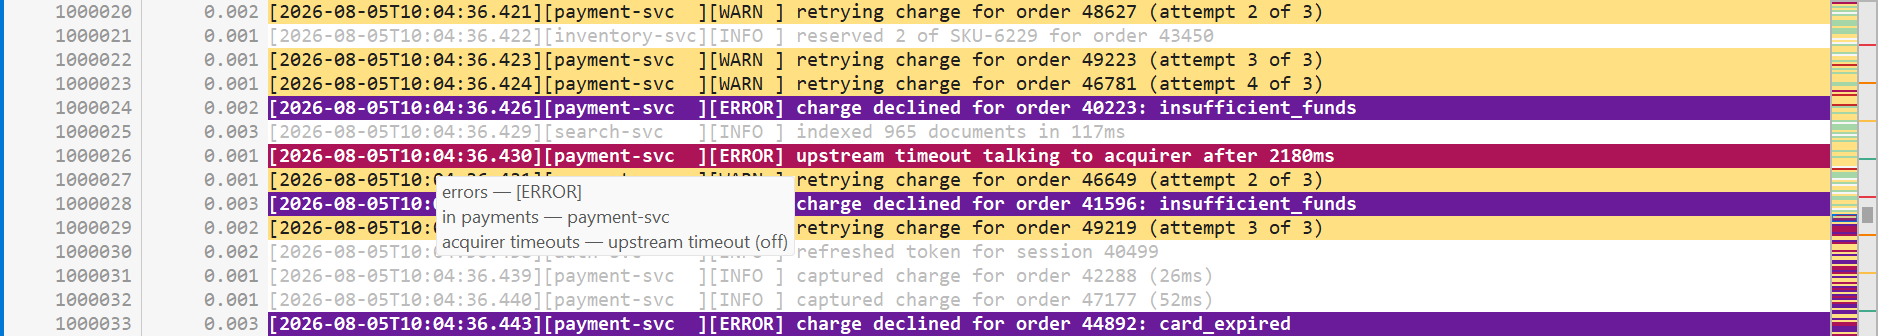
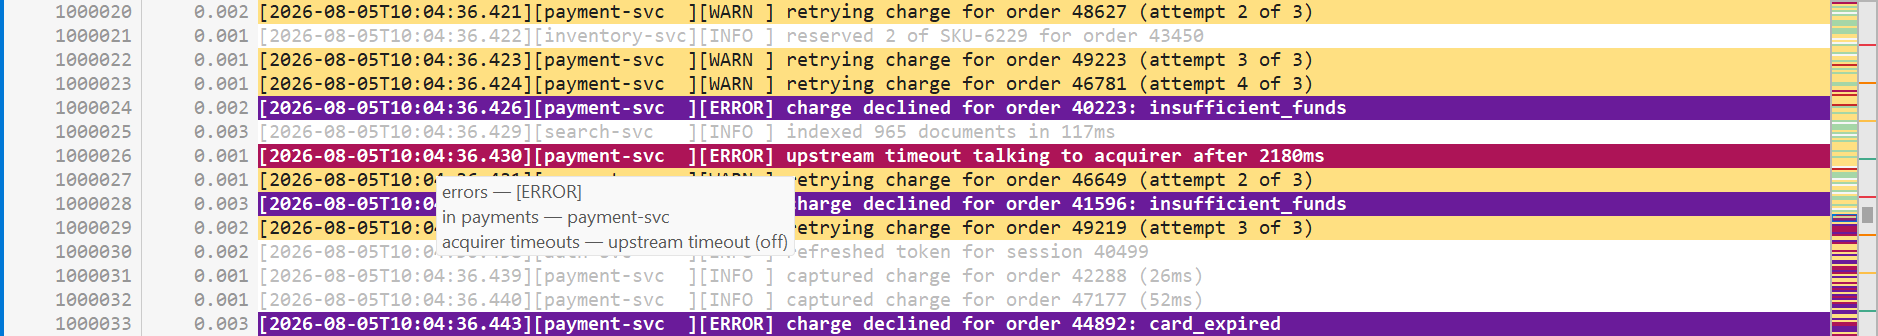
Stop the elapsed column reserving a character it never draws
It sized itself with TextRenderer.MeasureText under the default flags, which quote for glyph overhang GDI is never asked to draw. The figure is DRAWN with NoPadding, positioned by counting characters, and the line numbers beside it are sized by counting characters too - so the column carried most of a character of margin that nothing could ever appear in. Ten pixels at the default font; one whole character at every font and size measured.

Changed region(s): [[0.0927, 0.0, 0.7412, 1.0]]

diff --git a/src/Cascade.App/LineGridControl.cs b/src/Cascade.App/LineGridControl.cs
@@ -1070,7 +1070,12 @@ public sealed class LineGridControl : Control
                 _elapsedWidthAt = _charWidth;
                 _elapsedWidthDigits = digits;
                 _elapsedWidthWidest = widest;
-                _elapsedWidth = TextRenderer.MeasureText(ElapsedText.WidestGutter(digits, widest), FontRegular).Width
+                // NoPadding because that is how the figure is DRAWN. Measured any other way GDI quotes for
+                // glyph overhang nobody asked it to draw, which is a whole character of margin - and the
+                // line numbers beside it, sized by counting characters, do not pay for it.
+                _elapsedWidth = TextRenderer.MeasureText(ElapsedText.WidestGutter(digits, widest), FontRegular,
+                                                         new Size(int.MaxValue, int.MaxValue),
+                                                         TextFormatFlags.NoPadding).Width
                               + 2 * MarginPad;
             }
             return _elapsedWidth;
@@ -1144,11 +1149,18 @@ public sealed class LineGridControl : Control
     /// numbers is drawn - so a check can go and look at the pixels rather than trust the arithmetic.</summary>
     internal int ElapsedGutterLeftForTesting => MarkerGutterWidth + LineNumberGutterWidth;
 
+    /// <summary>The widest figure the elapsed column can ever be asked to draw, which is the whole reason
+    /// it is as wide as it is - so a check can hold the width to it rather than to a number copied out.
+    /// </summary>
+    internal string ElapsedWidestFigureForTesting
+        => _doc?.Clock is { } clock ? ElapsedText.WidestGutter(clock.FractionDigits, _doc.WidestElapsedSeconds()) : "";
+
     /// <summary>How the margin has divided itself up. The air either side of a figure is the point of it:
     /// the two must match, and both must scale, or the numbers end up against the window edge.</summary>
     internal string MarginLayoutForTesting
         => $"markers={MarkerGutterWidth} numbers={LineNumberGutterWidth} "
-         + $"elapsed={ElapsedGutterWidth} pad={MarginPad} char={_charWidth}";
+         + $"elapsed={ElapsedGutterWidth} pad={MarginPad} char={_charWidth}"
+         + $" figure=\u201c{ElapsedWidestFigureForTesting}\u201d";
 
     /// <summary>The topmost display row, so a harness can tell where the view actually ended up.</summary>
     internal long FirstRowForTesting => _firstRow;

diff --git a/src/Cascade.App/SelfTest.cs b/src/Cascade.App/SelfTest.cs
@@ -8046,11 +8046,16 @@ internal static class SelfTest
             Pump();
 
             // The width is what the text to its right is placed by, so it has to come from the widest value
-            // the format can EVER draw rather than from the ones on screen.
+            // the format can EVER draw rather than from the ones on screen - and from no MORE than that.
+            // Counted in characters, exactly as the line numbers beside it are: asked of GDI without
+            // NoPadding it quotes for glyph overhang that is never drawn, and the column carried a whole
+            // character of margin nobody could put anything in.
+            string figure = grid.ElapsedWidestFigureForTesting;
             int room = grid.ElapsedGutterWidthForTesting;
-            int wide = TextRenderer.MeasureText("-9999.999", grid.Font).Width;
-            ok &= Check("the margin is sized for the widest figure it could ever draw, not the ones on screen",
-                        room >= wide, $"{room}px of room for {wide}px of figure");
+            int wide = figure.Length * Figure(margins, "char=");
+            ok &= Check("the margin is sized for the widest figure it could ever draw, and no wider",
+                        room == wide + 2 * pad,
+                        $"{room}px of room for \u201c{figure}\u201d, which draws {wide}px with {pad}px of air either side");
 
             grid.GoToLine(41);
             Pump();
